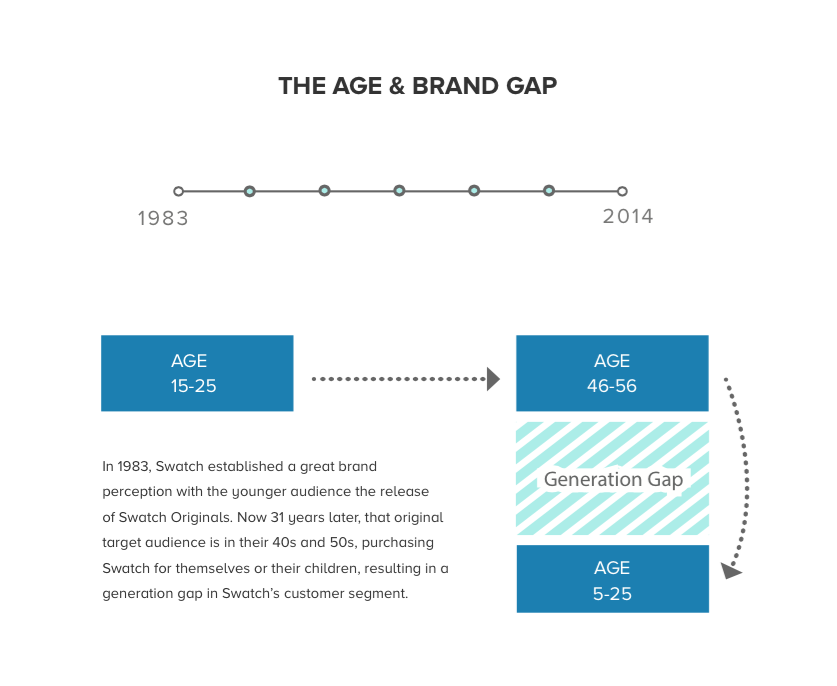
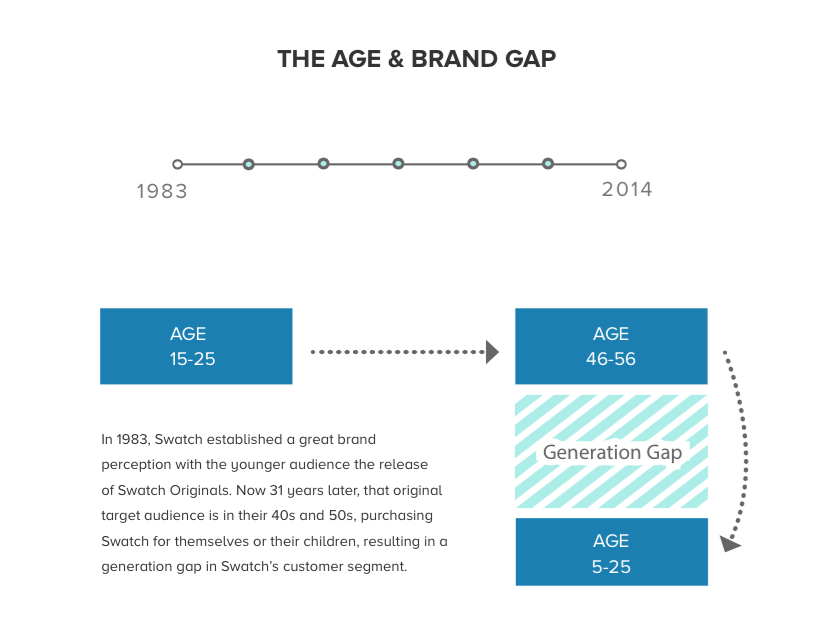
fixed respsonive design for swatch pg

diff --git a/css/swstyle.css b/css/swstyle.css
@@ -26,6 +26,10 @@ a:hover{
   color:#eee;
 }
 
+
+p{
+  font-size:0.8em;
+}
 h1{
   padding-top:2em;
   text-transform:uppercase;
@@ -226,7 +230,7 @@ p{
 }
 
 .contentTwo{
-  margin-top:10%;
+  margin-top:15%;
   clear:both;
   height:auto;
   background:url('../img/Swatch/rightmobile_01.png');
@@ -492,6 +496,12 @@ margin:0;
     }
     .worktitle{
       display:none;
+    }
+    #infothree .projectGif{
+      width:100%;
+      height:100%;
+      padding:0;
+      text-align:center;
     }
 
 }
